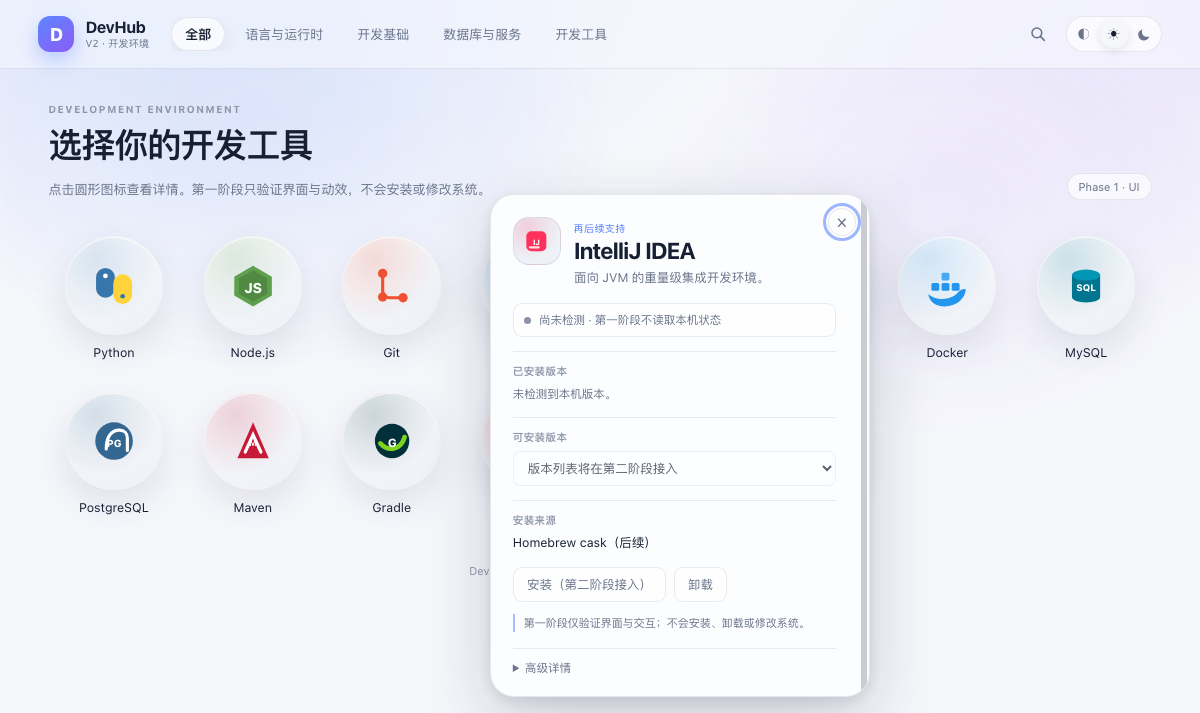
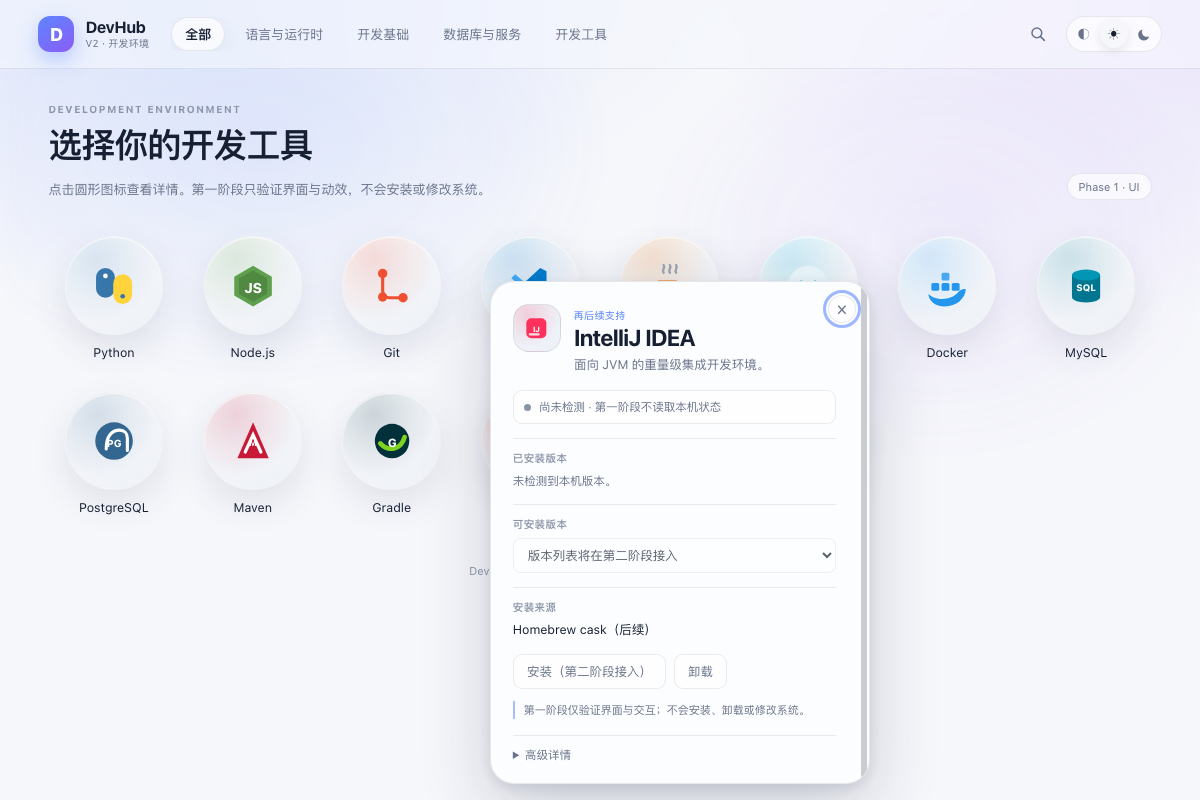
docs: refresh phase one screenshots at native window size

diff --git a/docs/PHASE1-REPORT.md b/docs/PHASE1-REPORT.md
@@ -66,8 +66,11 @@
 
 ## 4. 截图
 
+详情截图按原生窗口内容高度（1200×800 视口）采集。
+
 - `docs/screenshots/phase1-grid-native.png`：**真实 macOS 原生窗口**，圆形网格。
-- `docs/screenshots/phase1-detail-light.png`：浅色主题，Python 圆形锚点展开。
+- `docs/screenshots/phase1-grid-light.png`：1200×800 浅色网格。
+- `docs/screenshots/phase1-detail-light.png`：浅色主题，Python 圆形左上角锚点展开（卡片 380×522）。
 - `docs/screenshots/phase1-detail-dark.png`：深色主题，Python 圆形锚点展开。
 - `docs/screenshots/phase1-detail-edge.png`：右下角 IntelliJ IDEA，卡片向左上展开且不越界。
 - `docs/screenshots/phase1-grid-dark.png`：深色网格。
